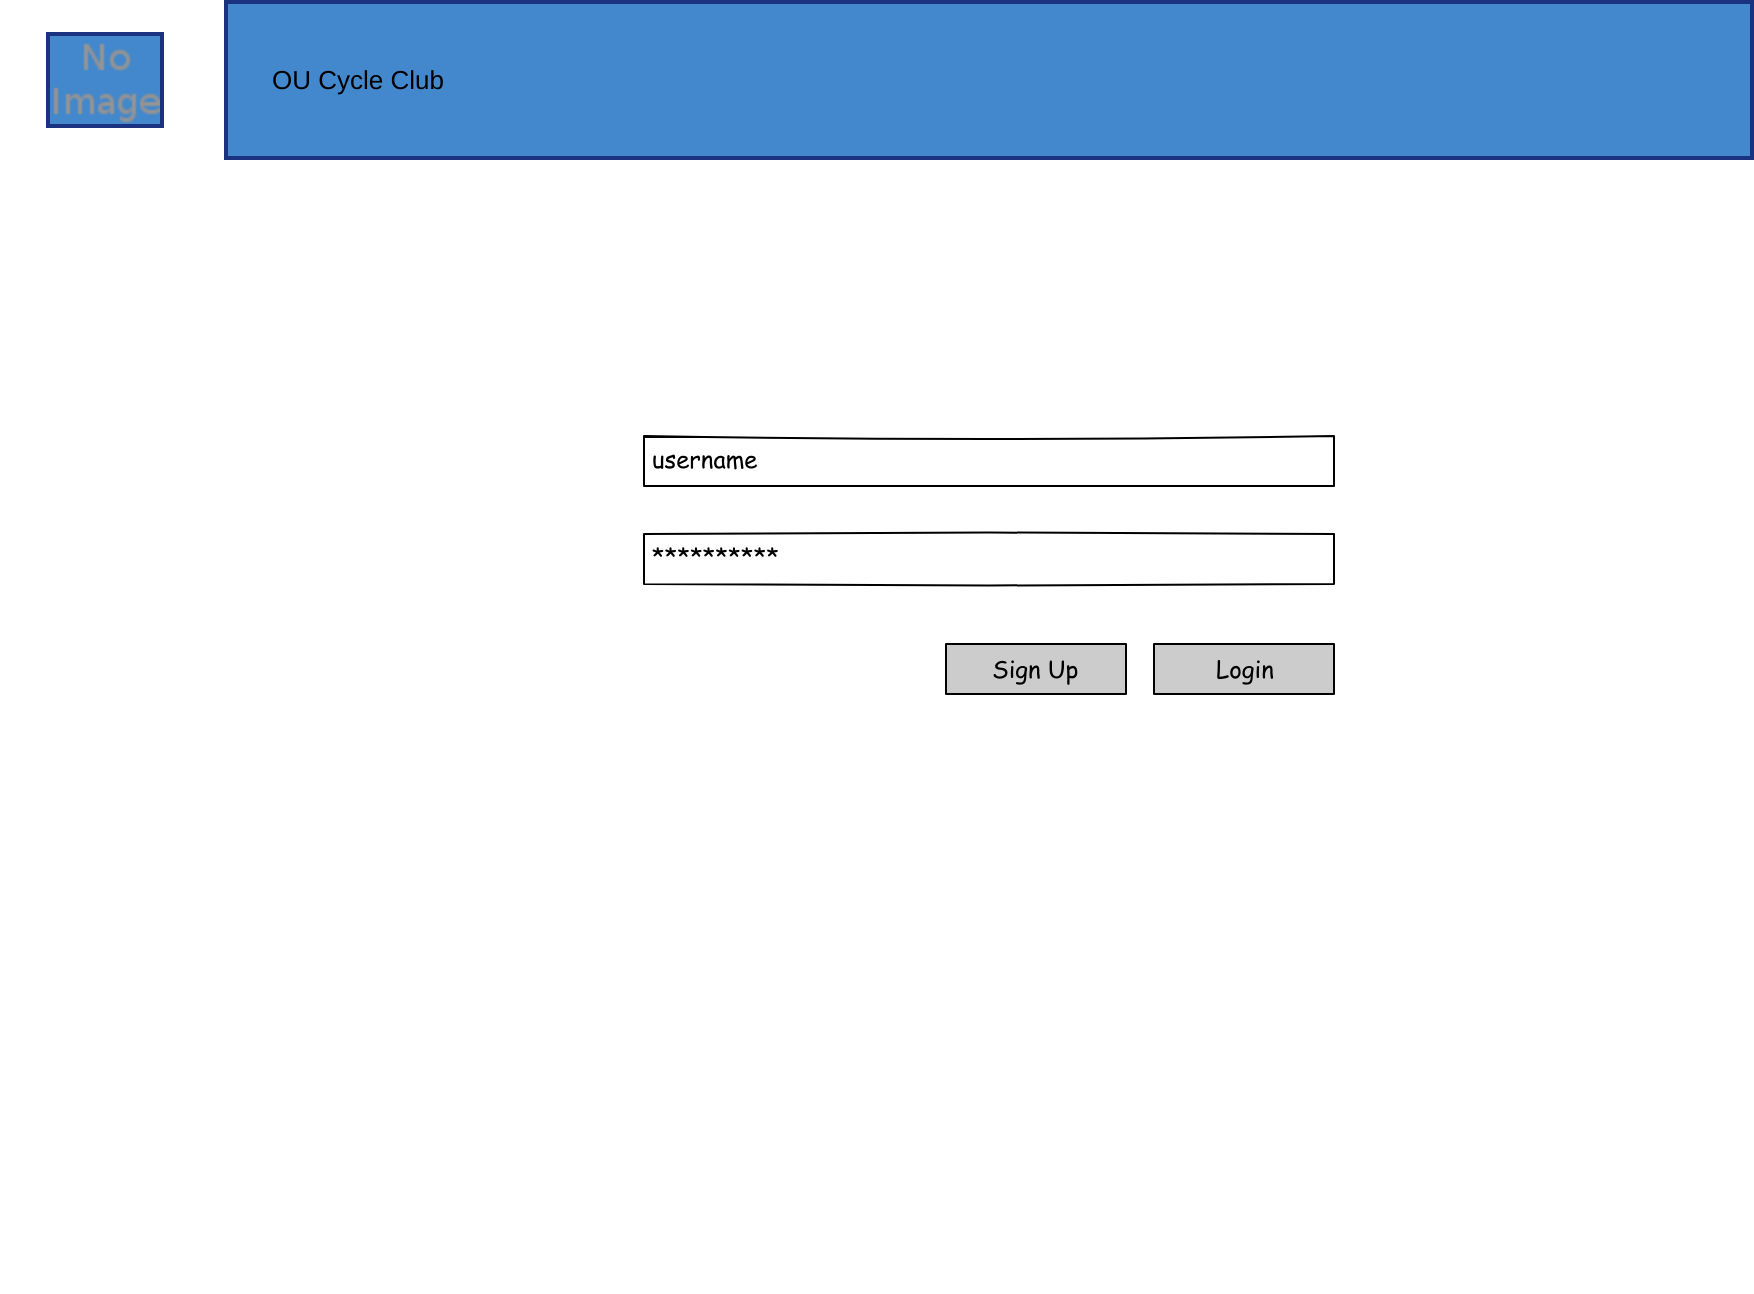
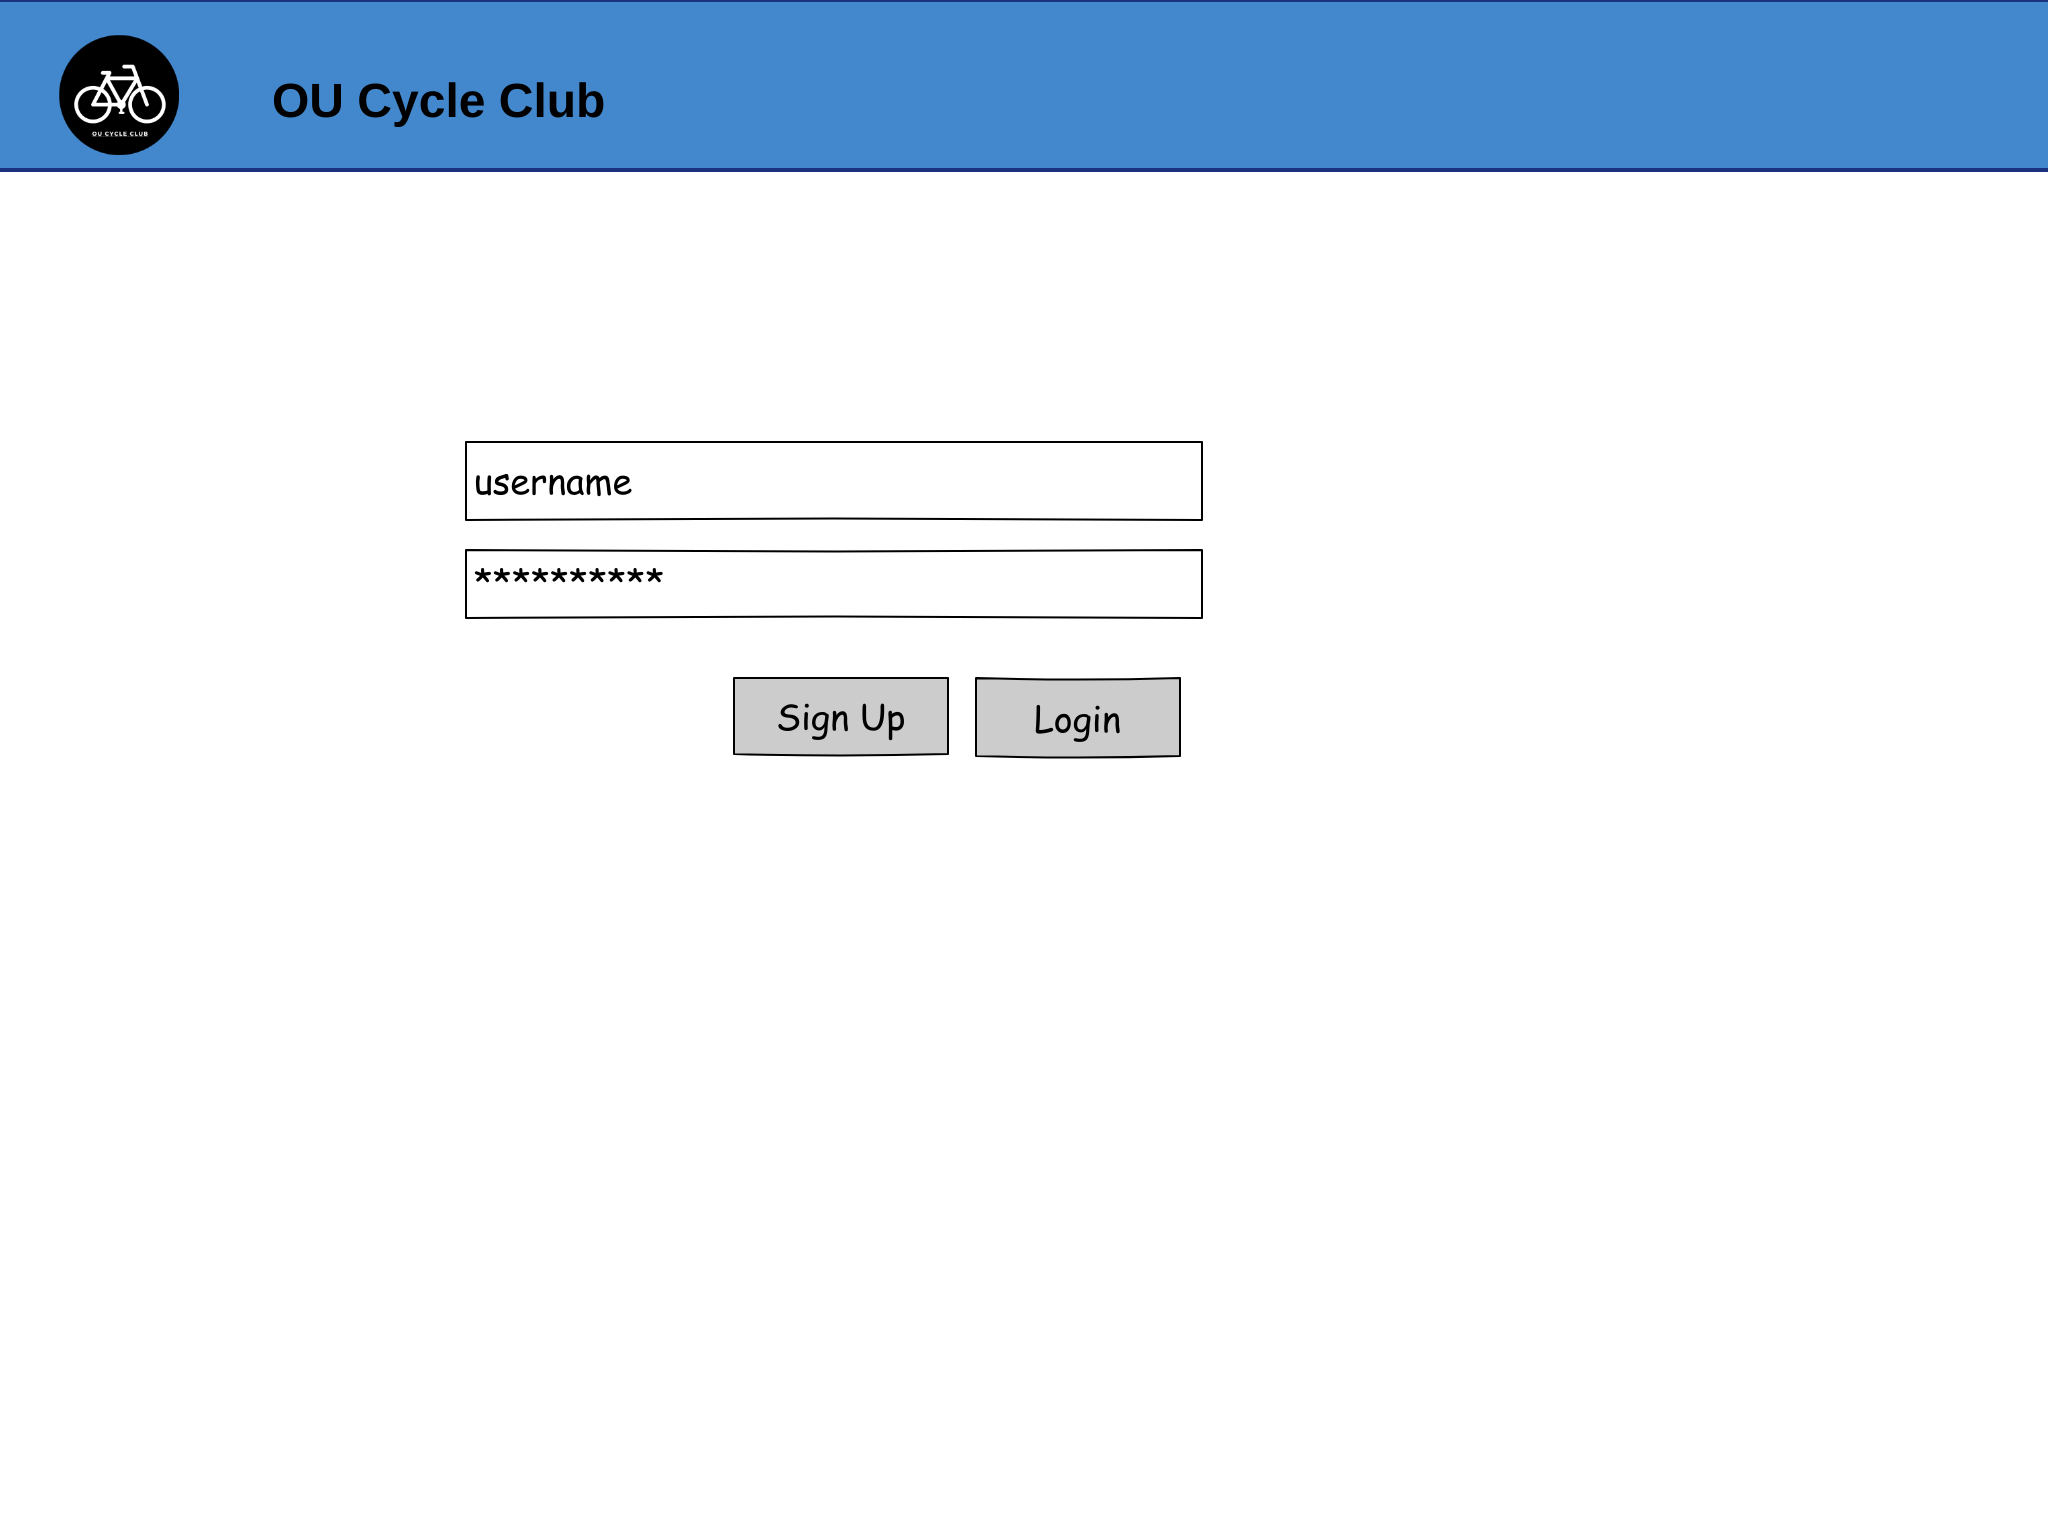
adding rides list page with changes to login screen and export

diff --git a/Wireframes/Wireframes Export/index.html b/Wireframes/Wireframes Export/index.html
@@ -1,2 +1,2 @@
 <html xmlns="http://www.w3.org/1999/xhtml" xmlns:p="http://www.evolus.vn/Namespace/Pencil" xmlns:html="http://www.w3.org/1999/xhtml"><head><meta http-equiv="Content-Type" content="text/html; charset=UTF-8" />
-<title>Pencil Wireframes</title><link rel="stylesheet" href="Resources/SampleStyle.css" /></head><body><h1 id="documentTitle">Pencil Wireframes</h1><p id="documentMetadata">Exported at: Mon Oct 14 2024 16:21:27 GMT+0100 (British Summer Time)</p><div class="Page" id="login_page"><h2>Login</h2><div class="ImageContainer"><img src="pages/login.png" width="NaN" height="NaN" usemap="#map_login" /></div><map name="map_login"></map></div></body></html>
+<title>Pencil Wireframes</title><link rel="stylesheet" href="Resources/SampleStyle.css" /></head><body><h1 id="documentTitle">Pencil Wireframes</h1><p id="documentMetadata">Exported at: Fri Nov 29 2024 13:11:01 GMT+0000 (Greenwich Mean Time)</p><div class="Page" id="login_page"><h2>Login</h2><div class="ImageContainer"><img src="pages/login.png" width="NaN" height="NaN" usemap="#map_login" /></div><map name="map_login"></map></div><div class="Page" id="rides_list_page"><h2>Rides List</h2><div class="ImageContainer"><img src="pages/rides_list.png" width="NaN" height="NaN" usemap="#map_rides_list" /></div><map name="map_rides_list"></map></div></body></html>
